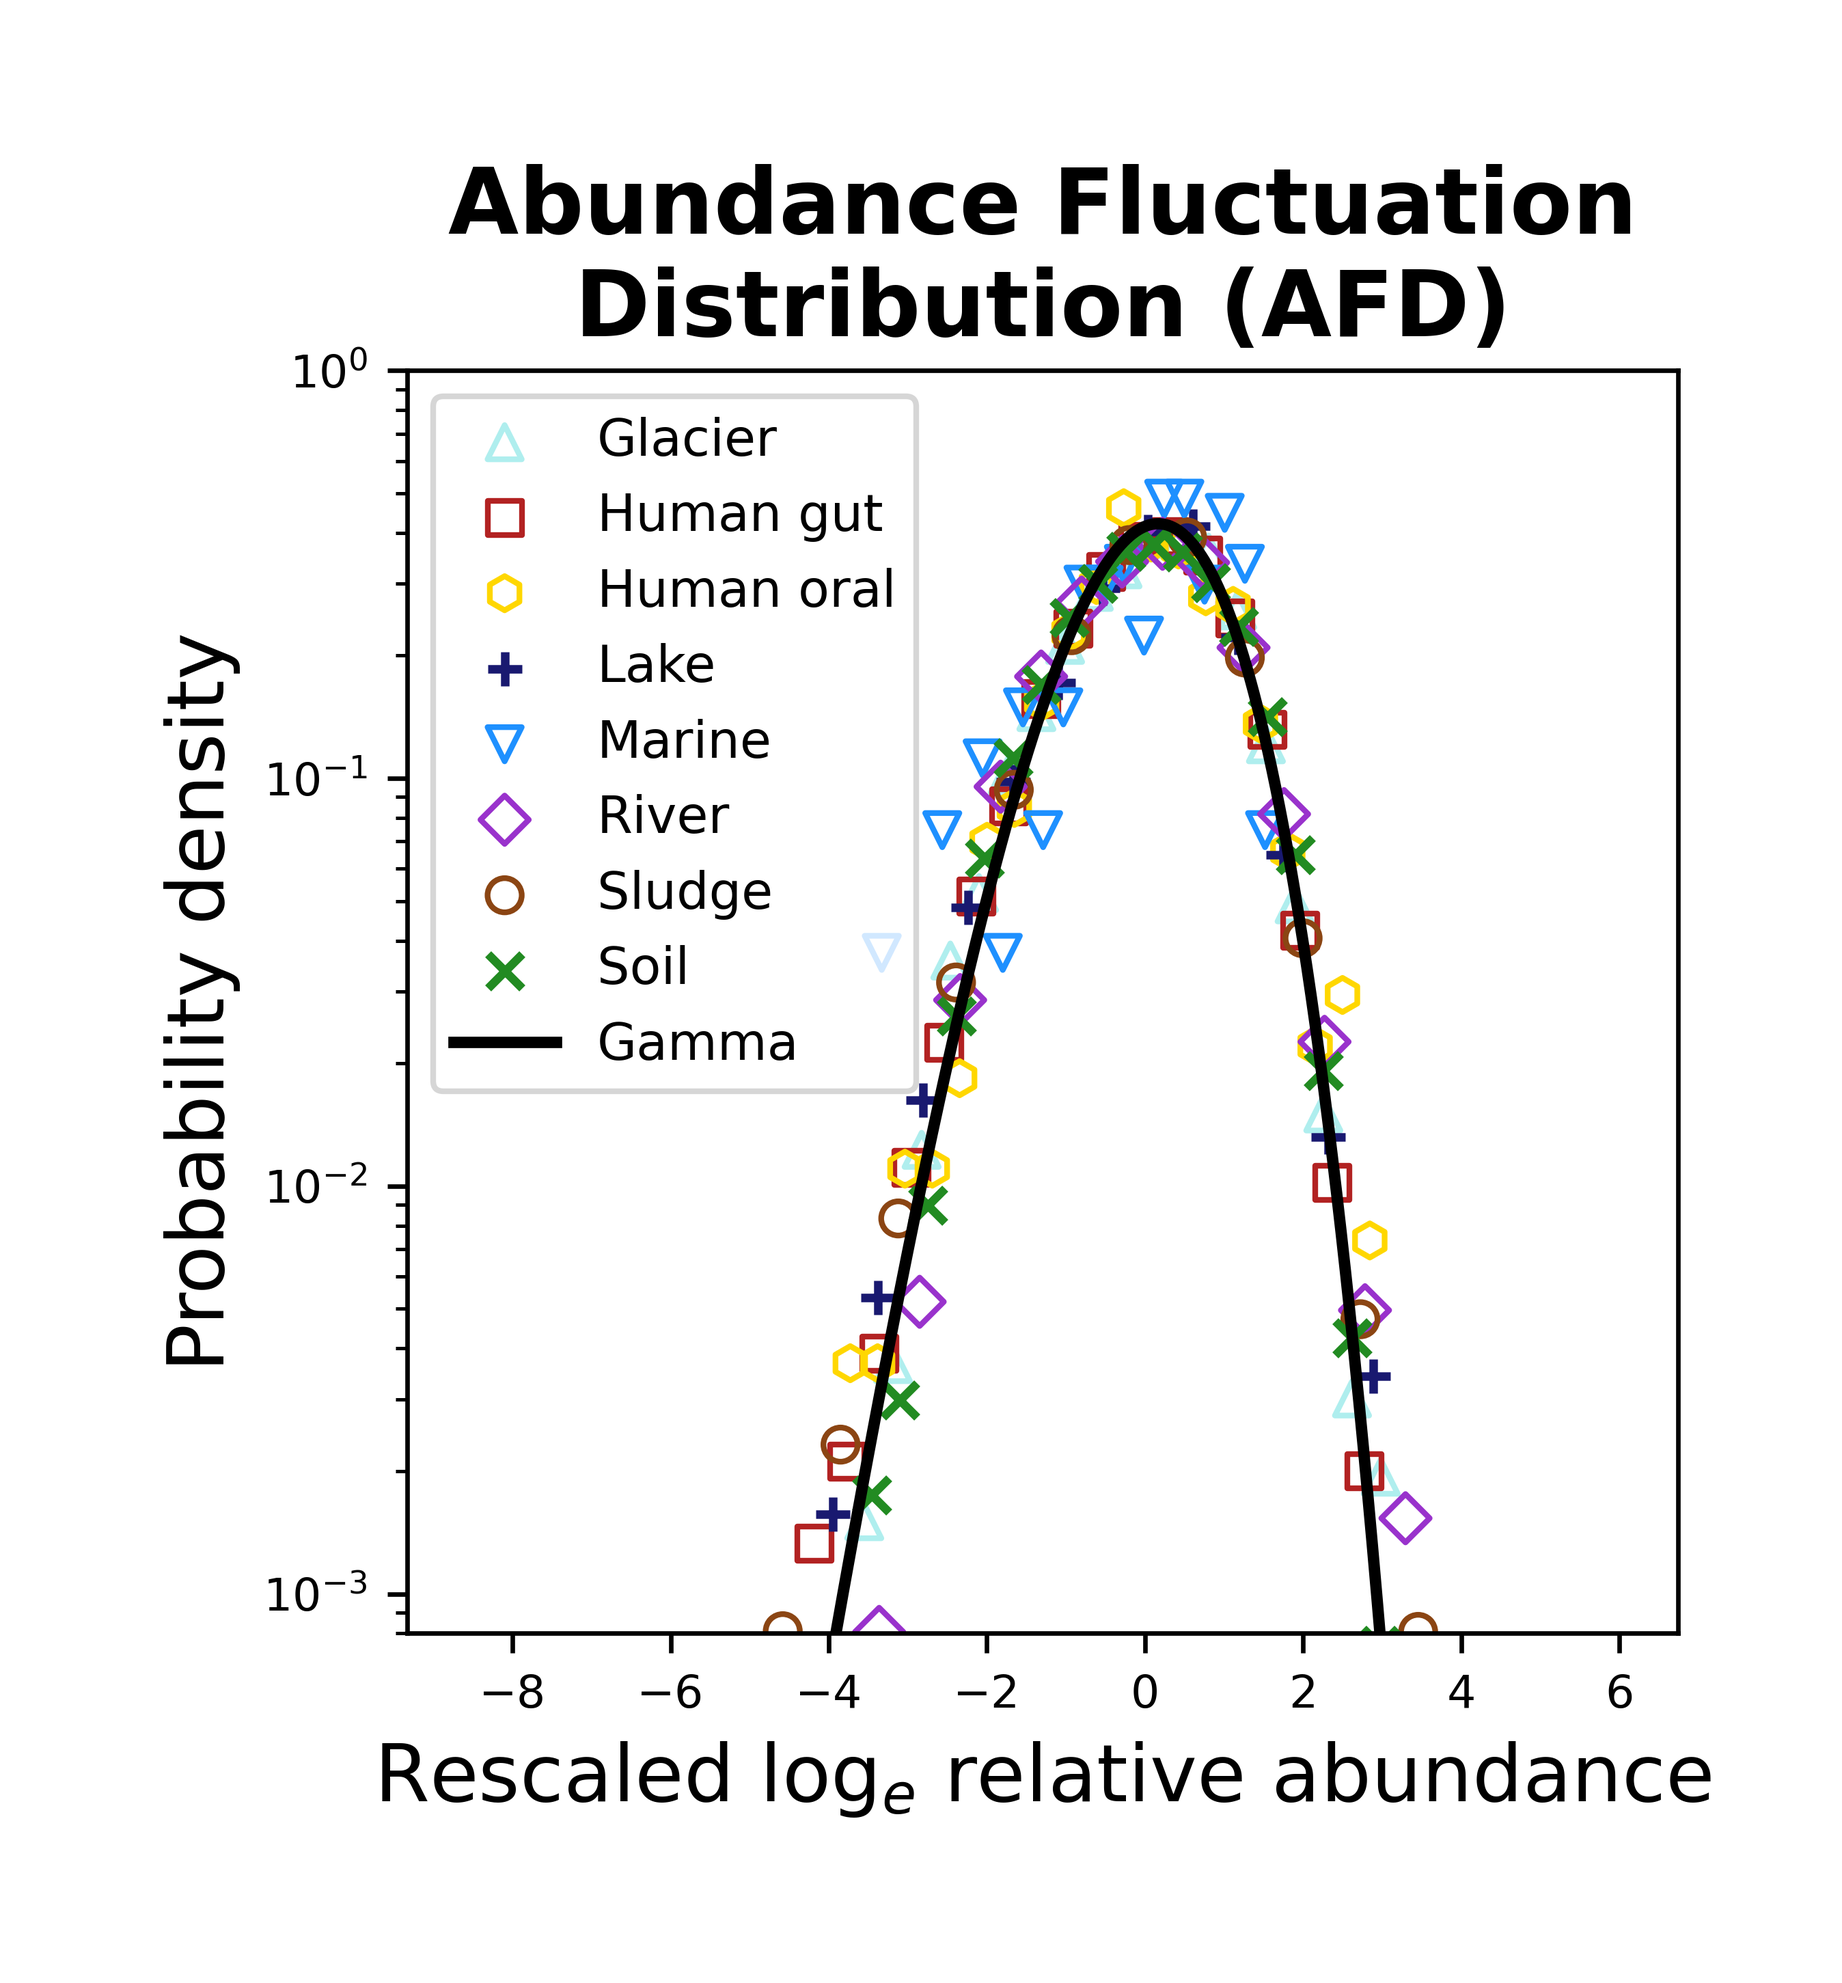
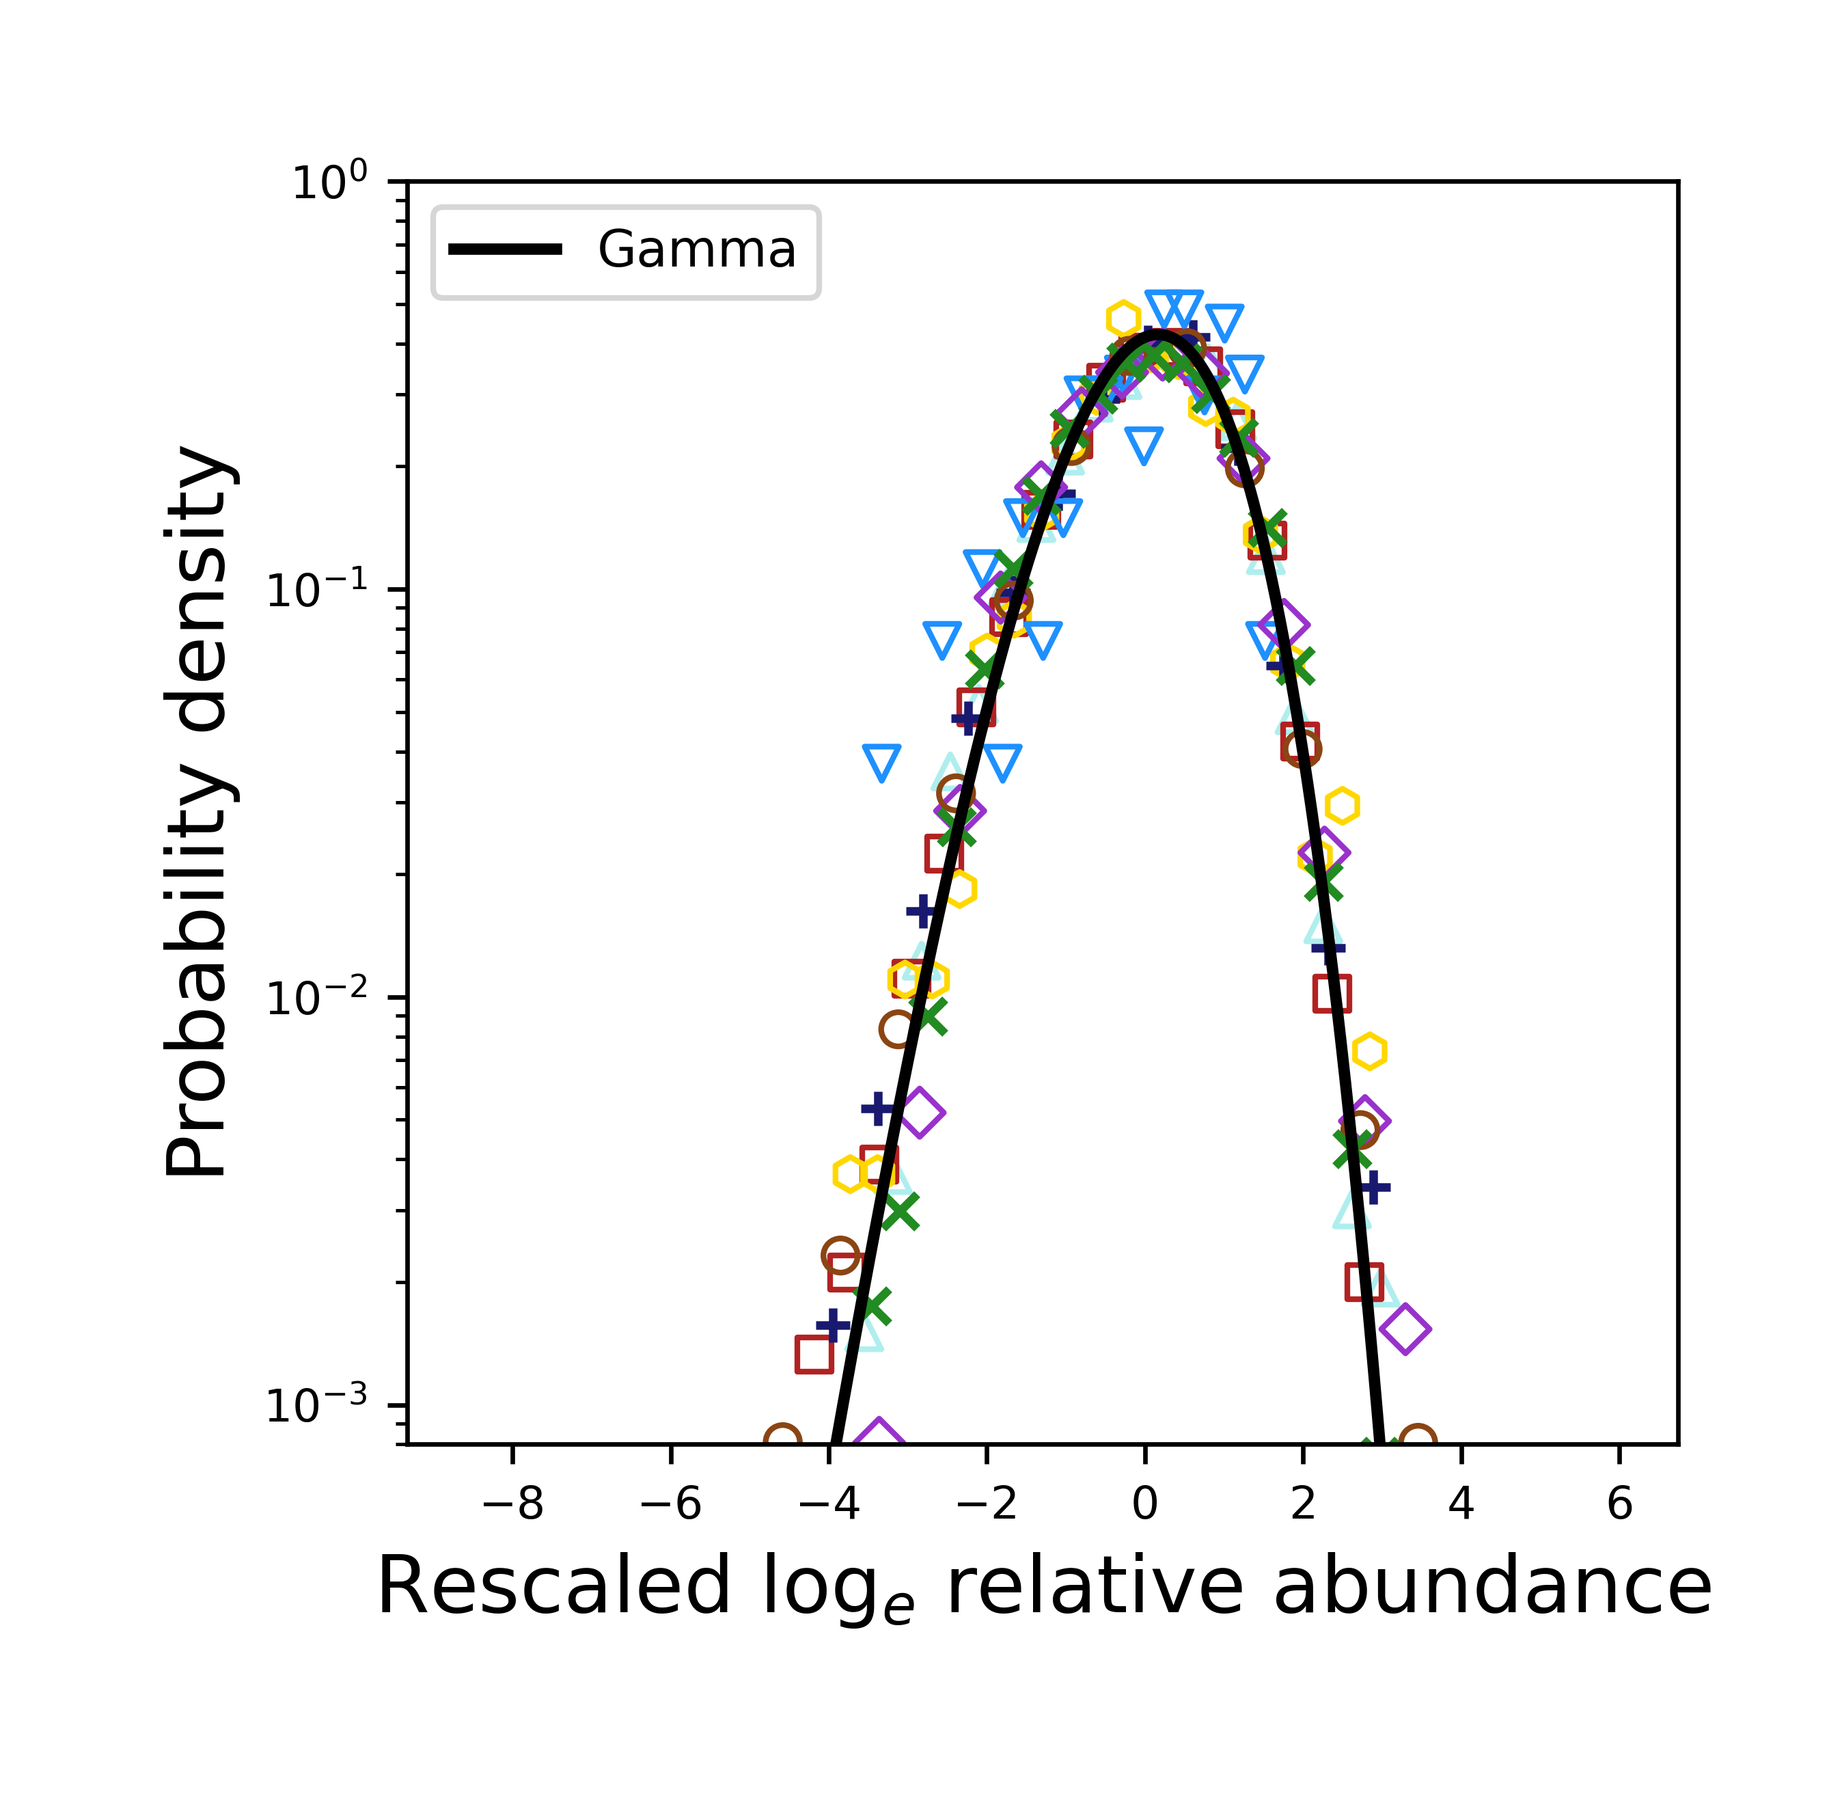
cleanup fig 1

diff --git a/scripts/plot_abundance_richness.py b/scripts/plot_abundance_richness.py
@@ -1,0 +1,111 @@
+import os
+import numpy
+import matplotlib.pyplot as plt
+from matplotlib import cm, colors, ticker
+from scipy.stats import loggamma, mode, nbinom
+import scipy.special as special
+import pandas
+
+import stats_utils
+import config
+import data_utils
+import plot_utils
+
+
+
+id_val = plot_utils.id_val_example
+environment = plot_utils.environment_example
+proj, gamma_pars, mean_pars = data_utils.get_processed_data()
+
+
+
+simulates_sp = pandas.DataFrame()
+npoints = 5
+
+sname = mean_pars.loc[mean_pars["idall"] == id_val, "sname"].iloc[0]
+
+proj_id = proj[proj["idall"] == id_val]
+nmin = proj_id["nreads"].astype(int).min()
+nmax = proj_id["nreads"].astype(int).max()
+
+dn = (numpy.log10(nmax) - numpy.log10(nmin)) / npoints
+
+sobs = proj_id["otu_id"].nunique()
+
+row = mean_pars.loc[mean_pars["idall"] == id_val].iloc[0]
+beta = row["mbeta"]
+mu = row["mu"]
+sigma = row["sigma"]
+stot = row["stot"]
+
+for i in range(-2, npoints + 3):  # R’s -2:(npoints+2)
+    n = nmin * 10 ** (i * dn)
+    
+    pred_sp = stats_utils.predicted_sp(n, mu, sigma, beta, stot)
+    pred_nr = stats_utils.predicted_reads(n, mu, sigma, beta, stot)
+    pred_shannon = stats_utils.predicted_shannonindex(n, mu, sigma, beta, stot)
+    
+    d = pandas.DataFrame({
+        "idall": [id_val],
+        "sname": [sname],
+        "pred_sp": [pred_sp],
+        "pred_si": [pred_shannon],
+        "tot_sp": [stot],
+        "nreads": [pred_nr],
+        "sigma": [sigma],
+        "mu": [mu],
+        "sobs": [sobs],
+        "beta": [beta],
+        "n0": [n]
+    })
+    
+    simulates_sp = pandas.concat([simulates_sp, d], ignore_index=True)
+
+
+#psp = (proj.groupby(["project_id", "sample_id", "run_id", "sname", "scat", "nreads"]).agg(nsp=("otu_id", pandas.Series.nunique)).reset_index())
+
+proj_environment = proj[proj["sname"] == plot_utils.sname_example]
+
+for col in ["project_id", "sample_id", "run_id"]:
+    proj_environment[col] = proj_environment[col].astype("category")
+
+
+#pspm = (proj.groupby(["project_id", "sample_id", "run_id", "sname", "scat", "nreads"]).agg(nsp=("otu_id", "nunique")).reset_index())
+pspm = (proj_environment.groupby(["project_id", "sample_id", "run_id", "sname", "scat", "nreads"]).agg(nsp=("otu_id", "nunique")).reset_index())
+
+
+df_sub = pspm[pspm["sname"] == plot_utils.sname_example]
+sim_sub = simulates_sp[simulates_sp["sname"] == plot_utils.sname_example]
+
+
+fig, ax = plt.subplots(figsize=(4,4))
+
+ax.scatter(df_sub["nreads"], df_sub["nsp"], color="gray", s=10, alpha=1, edgecolor="none", zorder=1)
+ax.plot(sim_sub["n0"], sim_sub["pred_sp"], color="black", linewidth=2, label='Prediction', ls='-', zorder=2)
+
+
+bin_centers, x_means, y_means = data_utils.bin_mean_xy(df_sub['nreads'].values, df_sub['nsp'].values, nbins=5, log10_x=True, log10_y=True)
+ax.scatter(10**x_means, 10**y_means, zorder=3, linewidth=3, marker=plot_utils.environment_shape_dict[environment], facecolors=plot_utils.environment_facecolor_dict[environment], edgecolors=plot_utils.environment_cmap_dict[environment])
+
+ax.set_xscale('log', base=10)
+ax.set_yscale('log', base=10)
+
+#ax.xaxis.set_tick_params(labelsize=8)
+#ax.yaxis.set_tick_params(labelsize=8)
+
+#ax.tick_params(axis='both', which='both', labelsize=12)
+ax.tick_params(axis='both', which='both', labelsize=8)
+ax.legend(loc='upper left', fontsize=9)
+
+
+ax.set_xlabel("Total # of reads, " + r'$N$', fontsize=14)
+ax.set_ylabel("# observed community members", fontsize=14)
+ax.set_title("Abundance-Richness Scaling", fontsize=16, fontweight='bold')
+
+
+
+
+fig.subplots_adjust(hspace=0.25, wspace=0.15)
+fig_name = "%sabundance_richness.png" % config.analysis_directory
+fig.savefig(fig_name, format='png', bbox_inches = "tight", pad_inches = 0.4, dpi = 600)
+plt.close()

diff --git a/scripts/plot_afd.py b/scripts/plot_afd.py
@@ -59,7 +59,7 @@ def plot_afd():
         density = density[to_plot_idx]
         density_all.append(density)
 
-        ax.scatter(bin_centers, density, marker=plot_utils.environment_shape_dict[environment], facecolors=plot_utils.environment_facecolor_dict[environment], edgecolors=plot_utils.environment_cmap_dict[environment], label=plot_utils.environment_name_dict[environment])
+        ax.scatter(bin_centers, density, marker=plot_utils.environment_shape_dict[environment], facecolors=plot_utils.environment_facecolor_dict[environment], edgecolors=plot_utils.environment_cmap_dict[environment])#, label=plot_utils.environment_name_dict[environment])
 
 
 
@@ -97,7 +97,7 @@ def plot_afd():
     ax.set_xlabel("Rescaled " + r'$\mathrm{log}_{e}$' + " relative abundance", fontsize=14)
     ax.set_ylabel("Probability density", fontsize=14)
 
-    ax.set_title('Abundance Fluctuation\nDistribution (AFD)', fontsize=16, fontweight='bold')
+    #ax.set_title('Abundance Fluctuation\nDistribution (AFD)', fontsize=16, fontweight='bold')
 
 
     fig.subplots_adjust(hspace=0.25, wspace=0.15)

diff --git a/scripts/plot_abundance_occupancy.py b/scripts/plot_abundance_occupancy.py
@@ -117,7 +117,7 @@ bin_centers_log10_pred, x_means_log10_pred, y_means_log10_pred = data_utils.bin_
 
 fig, ax = plt.subplots(figsize=(4,4))
 
-ax.scatter(10**x_means_log10_obs, 10**y_means_log10_obs,zorder=2,  marker=plot_utils.environment_shape_dict[environment], facecolors=plot_utils.environment_facecolor_dict[environment], edgecolors=plot_utils.environment_cmap_dict[environment])
+ax.scatter(10**x_means_log10_obs, 10**y_means_log10_obs,zorder=2, linewidth=3, marker=plot_utils.environment_shape_dict[environment], facecolors=plot_utils.environment_facecolor_dict[environment], edgecolors=plot_utils.environment_cmap_dict[environment])
 ax.plot(10**x_means_log10_pred, 10**y_means_log10_pred, 'k', lw=2, ls='-', zorder=1, label='Prediction')
 
 

diff --git a/scripts/stats_utils.py b/scripts/stats_utils.py
@@ -58,6 +58,7 @@ def predicted_sp(N, mu, sigma, beta, sp_tot):
 def predicted_shannonindex(N, mu, sigma, beta, sp_tot):
 
     s = []
+    sp_tot = int(round(sp_tot)) 
     for _ in range(100):
         eta = numpy.random.normal(loc=mu, scale=sigma, size=sp_tot)
         prob = beta / (beta + N * numpy.exp(eta))
@@ -66,7 +67,7 @@ def predicted_shannonindex(N, mu, sigma, beta, sp_tot):
         k = nbinom.rvs(n=beta, p=prob)
         
         # Normalize nonzero counts
-        k = k[k > 0] / N
+        k = k[k > 0].astype(float) / N
         
         if len(k) > 0:
             shannon_val = -numpy.sum(k * numpy.log(k))

diff --git a/scripts/plot_taylors_law.py b/scripts/plot_taylors_law.py
@@ -63,7 +63,7 @@ ax.yaxis.set_tick_params(labelsize=8)
 ax.set_xlabel("Mean relative abundance, " + r'$\bar{x}_{i}$', fontsize=14)
 ax.set_ylabel("Variance of relative abundance, " + r'$\sigma^{2}_{x_{i}}$', fontsize=14)
 
-ax.set_title("Taylor's Law", fontsize=16, fontweight='bold')
+#ax.set_title("Taylor's Law", fontsize=16, fontweight='bold')
 
 
 

diff --git a/scripts/plot_mad.py b/scripts/plot_mad.py
@@ -149,7 +149,7 @@ def plot_mad():
     ax.set_ylabel("Probability density", fontsize=14)
 
 
-    ax.set_title('Mean Abundance\nDistribution (MAD)', fontsize=16, fontweight='bold')
+    #ax.set_title('Mean Abundance\nDistribution (MAD)', fontsize=16, fontweight='bold')
 
 
     fig.subplots_adjust(hspace=0.25, wspace=0.15)

diff --git a/scripts/plot_utils.py b/scripts/plot_utils.py
@@ -16,3 +16,4 @@ sname_to_environment_dict = {'lake':'Lake', 'seawater':'Environmental Aquatic Ma
 # for example plots
 id_val_example = 'SRP056641 GUT'
 environment_example = 'GUT'
+sname_example = 'gut1'
